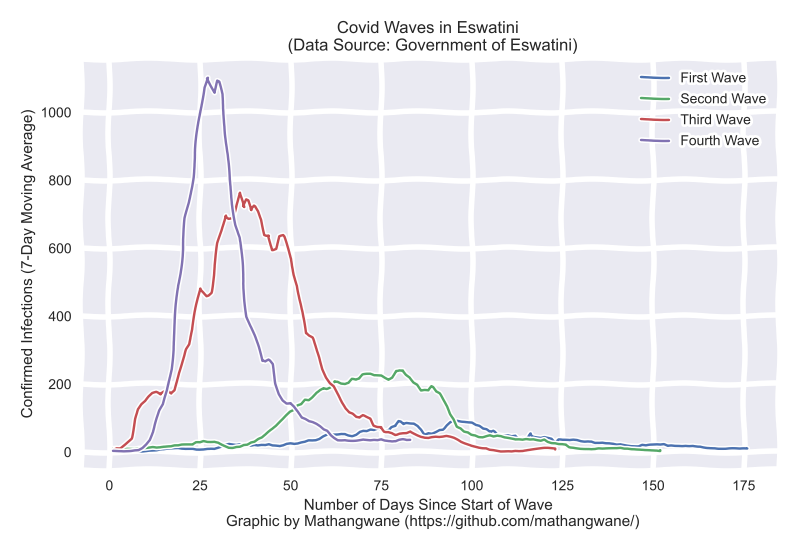
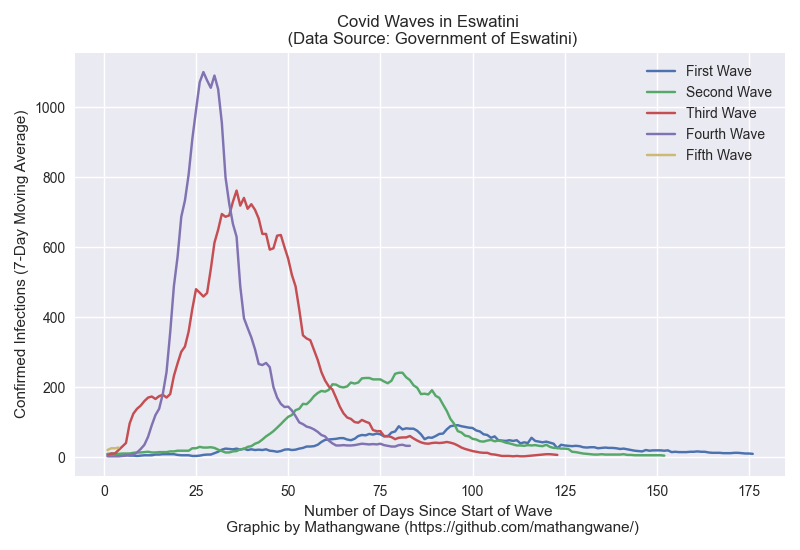
05 April 2022

diff --git a/eswatini_covid19_infections.py b/eswatini_covid19_infections.py
@@ -1,13 +1,14 @@
 import pandas as pd 
 from matplotlib import pyplot as plt
 
-plt.xkcd()
+#plt.xkcd()
 plt.style.use('seaborn')
 
 data = pd.read_csv('data/wave1.csv')
 data2 = pd.read_csv('data/wave2.csv')
 data3 = pd.read_csv('data/wave3.csv')
 data4 = pd.read_csv('data/wave4.csv')
+data5 = pd.read_csv('data/wave5.csv')
 
 Infection_Day = data['Day']
 Infection_Number = data['Infections']
@@ -21,10 +22,14 @@ Infection_Number3 = data3['Infections']
 Infection_Day4 = data4['Day']
 Infection_Number4 = data4['Infections']
 
+Infection_Day5 = data5['Day']
+Infection_Number5 = data5['Infections']
+
 plt.plot(Infection_Day, Infection_Number, marker=None, linestyle='solid')
 plt.plot(Infection_Day2, Infection_Number2, marker=None, linestyle='solid')
 plt.plot(Infection_Day3, Infection_Number3, marker=None, linestyle='solid')
 plt.plot(Infection_Day4, Infection_Number4, marker=None, linestyle='solid')
+plt.plot(Infection_Day5, Infection_Number5, marker=None, linestyle='solid')
 
 plt.title('Covid Waves in Eswatini \n (Data Source: Government of Eswatini)')
 plt.xlabel('Number of Days Since Start of Wave \n Graphic by Mathangwane (https://github.com/mathangwane/)')
@@ -32,6 +37,6 @@ plt.ylabel('Confirmed Infections (7-Day Moving Average)')
 
 plt.tight_layout()
 
-plt.legend(["First Wave", "Second Wave", "Third Wave", "Fourth Wave"])
+plt.legend(["First Wave", "Second Wave", "Third Wave", "Fourth Wave", "Fifth Wave"])
 
 plt.show()
